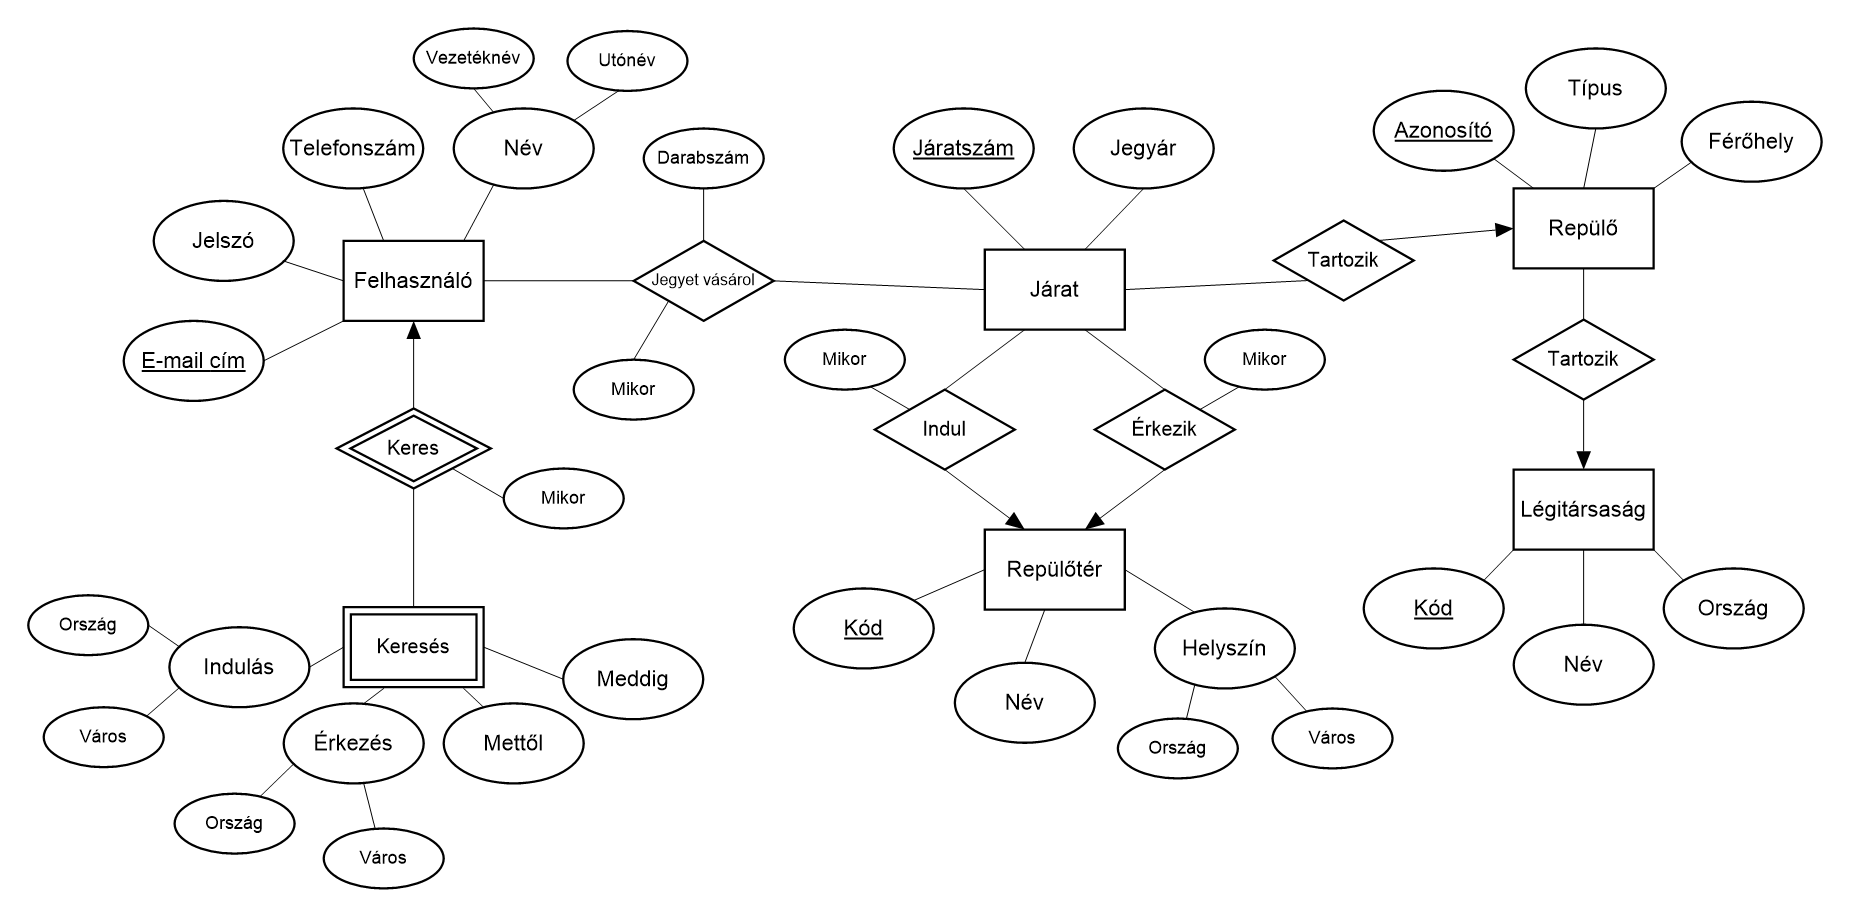
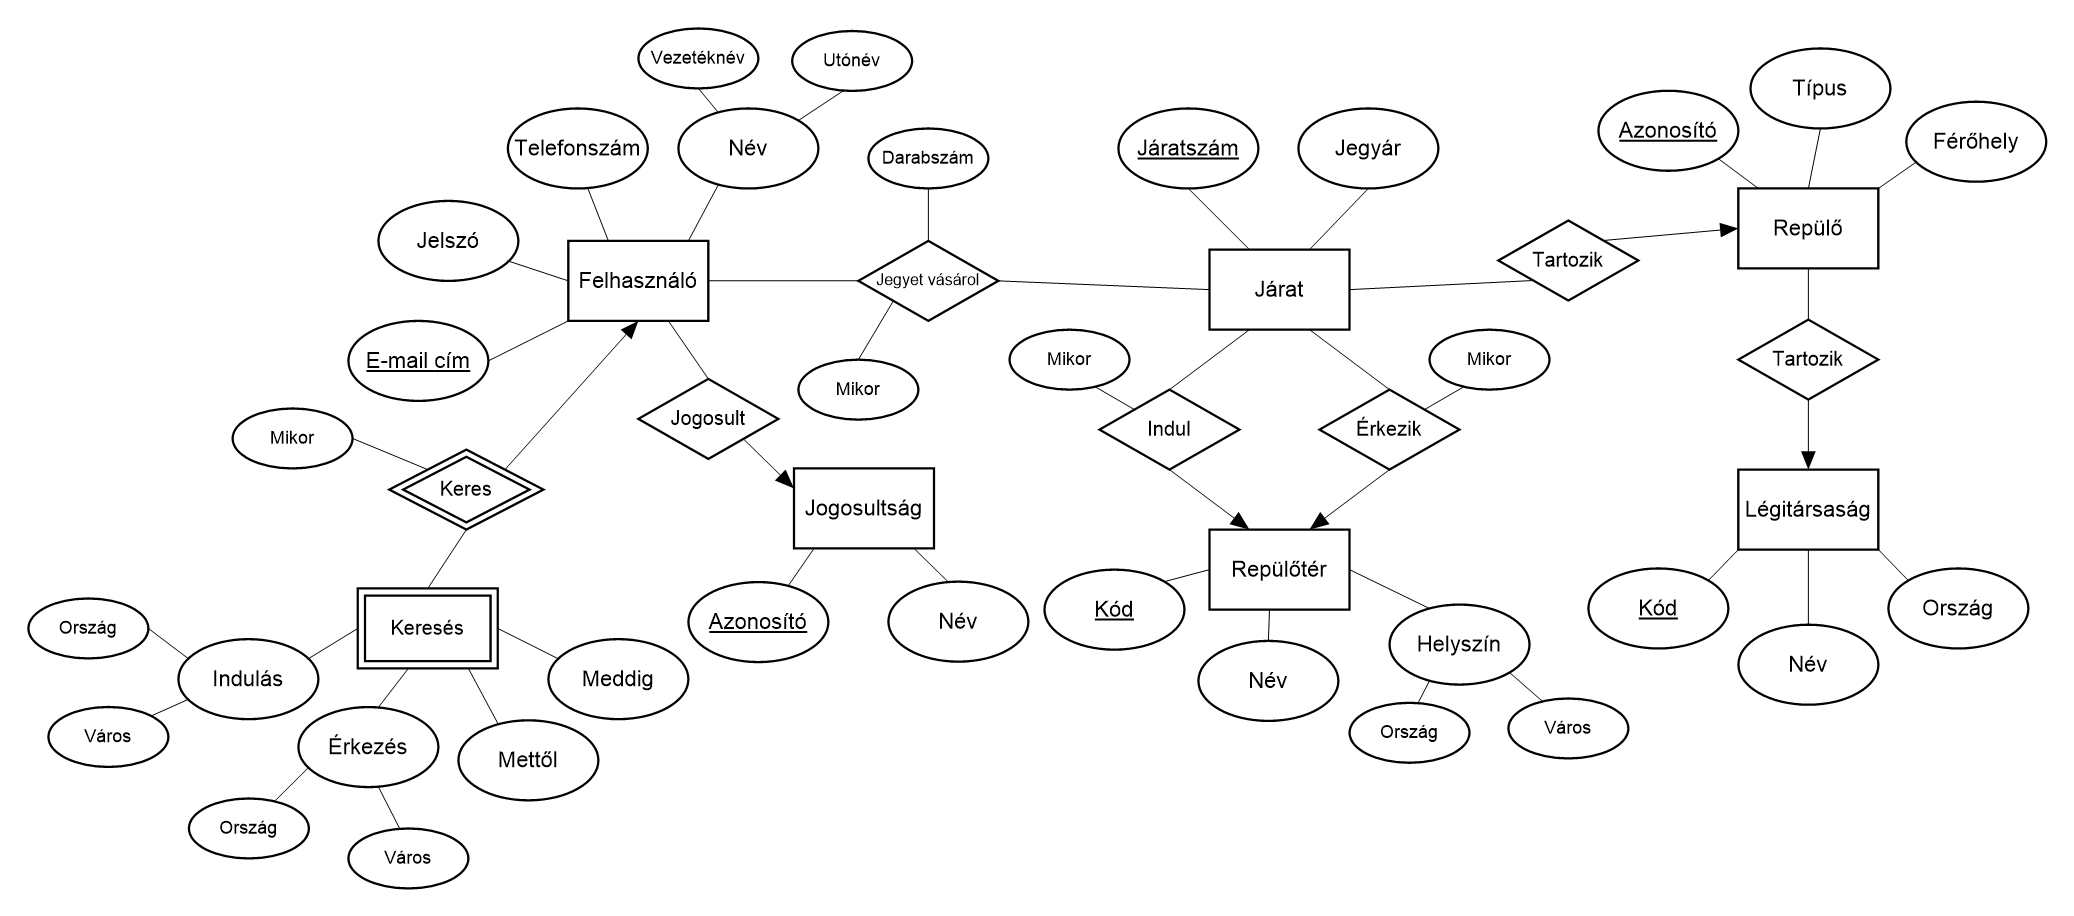
Add User roles to database

diff --git a/README.md b/README.md
@@ -49,7 +49,8 @@ A látogatók böngészni, keresni tudnak járatokat igényeiknek megfelelően, 
 [Egyed-kapcsolat diagram](./doc/dia/entity_relationship.png)
 
 ## 4. EK diagram leképezése
-Felhasználó(<ins>e-mail</ins>, jelszó, telefonszám, vezetéknév, utónév)
+Jogosultság(<ins>azonosító</ins>, név)
+Felhasználó(<ins>e-mail</ins>, *Jogosultság.azonosító*, jelszó, telefonszám, vezetéknév, utónév)
 Légitársaság(<ins>kód</ins>, név, ország)
 Repülő(<ins>azonosító</ins>, <ins>*Légitársaság.kód*</ins>, típus, férőhely)
 Repülőtér(<ins>kód</ins>, név, ország, város)
